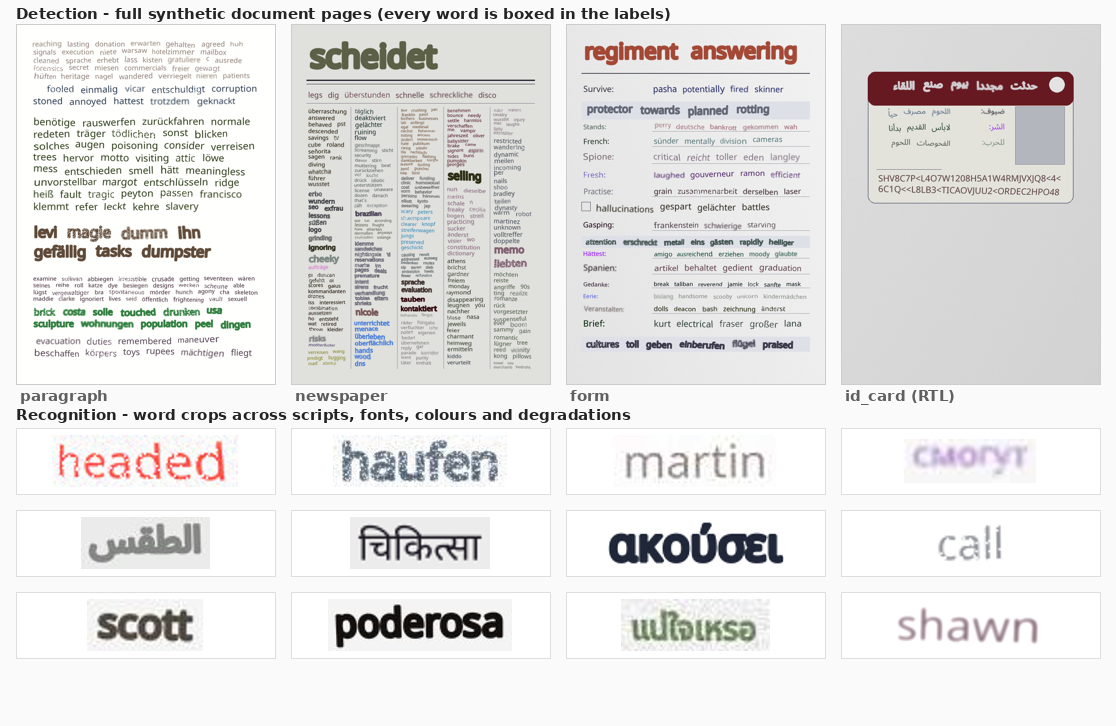
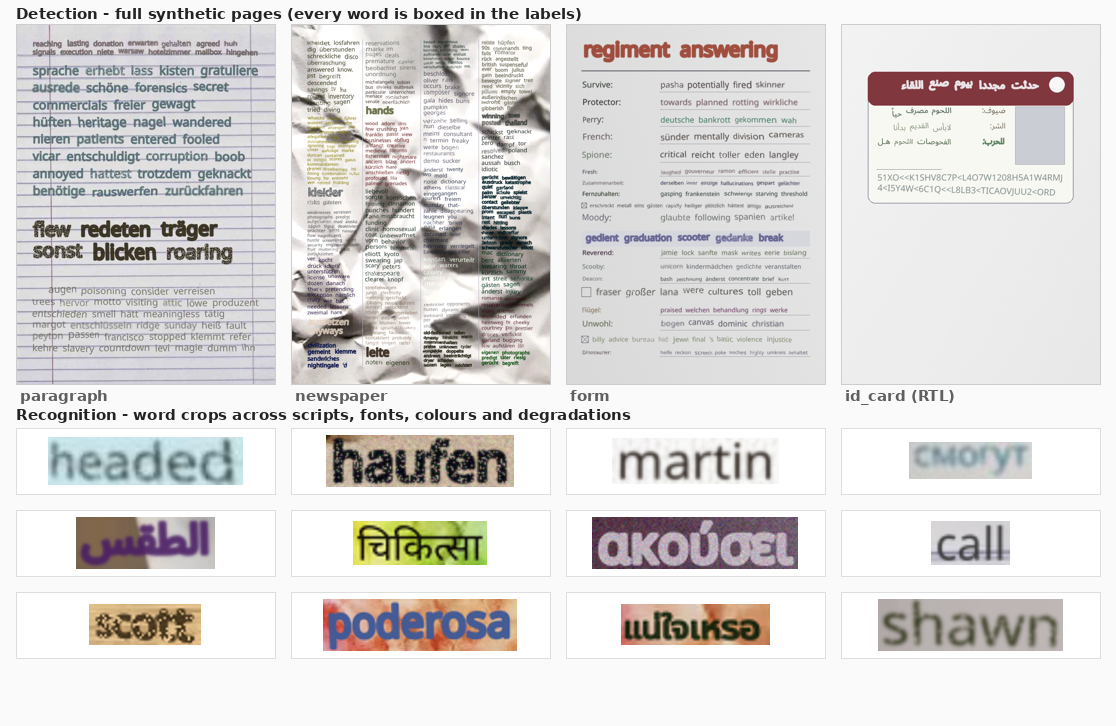
Update config

diff --git a/scripts/generate_grid.py b/scripts/generate_grid.py
@@ -1,0 +1,180 @@
+#!/usr/bin/env python3
+# Copyright (C) 2021-2026, Felix Dittrich.
+#
+# Render an example grid (detection pages + recognition crops) like the one in
+# the README. Words, fonts and backgrounds are downloaded/cached on first run.
+#
+#   python make_examples_grid.py                      # -> docs/examples_grid.png
+#   python make_examples_grid.py -o my_grid.png --seed 7
+
+from __future__ import annotations
+
+import argparse
+import os
+import random
+
+import numpy as np
+from PIL import Image, ImageDraw, ImageFont
+
+from generator.components import GenerationConfig, PageGenerator, TextImageGenerator
+from generator.components.background_downloader import BackgroundDownloader
+from generator.components.corpus_downloader import CorpusDownloader
+
+# (layout, languages, seed) - one detection page per layout; Arabic id_card shows RTL.
+DETECTION = [
+    ("paragraph", ["en", "de"], 3),
+    ("newspaper", ["en", "de"], 2),
+    ("form", ["en", "de"], 7),
+    ("id_card", ["ar"], 4),
+]
+DETECTION_CAPTIONS = ["paragraph", "newspaper", "form", "id_card (RTL)"]
+
+# (languages, seed) - recognition crops across scripts/fonts/colours.
+RECOGNITION = [
+    (["en"], 1),
+    (["de"], 2),
+    (["fr"], 3),
+    (["ru"], 4),
+    (["ar"], 5),
+    (["hi"], 6),
+    (["el"], 7),
+    (["en"], 8),
+    (["de"], 9),
+    (["es"], 10),
+    (["th"], 11),
+    (["en"], 12),
+]
+
+CACHE = dict(
+    corpus_cache_dir="/tmp/synth_corpus", font_cache_dir="/tmp/synth_fonts", background_cache_dir="/tmp/synth_bg"
+)
+
+
+def _font(size: int):
+    for path in (
+        "/usr/share/fonts/truetype/dejavu/DejaVuSans-Bold.ttf",
+        "/Library/Fonts/Arial Bold.ttf",
+    ):
+        try:
+            return ImageFont.truetype(path, size)
+        except OSError:
+            continue
+    return ImageFont.load_default()
+
+
+def resolve_backgrounds():
+    """Download the curated background set once and return its directory (or None).
+
+    ``auto_download_backgrounds`` only fires inside the full dataset generator, so
+    when rendering pages directly we trigger the download ourselves and pass the
+    resulting directory as ``bg_image_dir``.
+    """
+    downloader = BackgroundDownloader(cache_dir=CACHE["background_cache_dir"], enabled=True)
+    paths = downloader.download_all()
+    if not paths:
+        print("No backgrounds downloaded - falling back to generated/blank backgrounds.")
+        return None
+    print(f"Using {len(paths)} downloaded backgrounds from {CACHE['background_cache_dir']}")
+    return CACHE["background_cache_dir"]
+
+
+def detection_page(corpus, languages, layout, seed, bg_dir=None, w=620, h=860):
+    """Render one detection page (PIL image) for a given layout."""
+    words = corpus.build_vocabulary(languages, words_per_language=12000)
+    cfg = GenerationConfig.flat(
+        task="detection",
+        languages=languages,
+        det_layout=layout,
+        det_rotation_prob=0.0,
+        det_page_width_range=(w, w),
+        det_page_height_range=(h, h),
+        bg_image_dir=bg_dir,  # use the downloaded backgrounds
+        det_plain_background_prob=0.0 if bg_dir else 0.4,  # show them off in the demo
+        auto_download_backgrounds=False,  # already resolved above
+        **CACHE,
+    )
+    random.seed(seed)
+    np.random.seed(seed)
+    page, _ = PageGenerator(cfg).generate_page(random.choices(words, k=600))
+    return page
+
+
+def recognition_crop(corpus, languages, seed, bg_dir=None):
+    """Render one recognition word crop (PIL image)."""
+    words = corpus.build_vocabulary(languages, words_per_language=6000)
+    gen = TextImageGenerator(
+        GenerationConfig.flat(
+            task="recognition", languages=languages, auto_download_fonts=True, bg_image_dir=bg_dir, **CACHE
+        )
+    )
+    random.seed(seed * 13)
+    np.random.seed(seed * 13)
+    for _ in range(30):  # skip the rare blank render
+        crop = gen.generate_image(random.choice(words))
+        if crop is not None and crop.width > 20:
+            return crop.convert("RGB")
+    return Image.new("RGB", (60, 24), (255, 255, 255))
+
+
+def build_grid(out_path: str, seed: int = 0):
+    """Render the full example grid and save it to ``out_path``."""
+    corpus = CorpusDownloader(cache_dir=CACHE["corpus_cache_dir"])
+    random.seed(seed)
+    bg_dir = resolve_backgrounds()
+
+    # --- detection row (uniform height) ---
+    th = 360
+    pages = [detection_page(corpus, langs, layout, s, bg_dir=bg_dir) for layout, langs, s in DETECTION]
+    pages = [p.resize((int(p.width * th / p.height), th)) for p in pages]
+
+    # --- recognition crops ---
+    crops = [recognition_crop(corpus, langs, s, bg_dir=bg_dir) for langs, s in RECOGNITION]
+
+    pad, cap = 16, 24
+    det_w = sum(p.width for p in pages) + pad * (len(pages) + 1)
+    cols, rows = 4, 3
+    cell_w = (det_w - pad * (cols + 1)) // cols
+    cell_h = 66
+    rec_h = rows * (cell_h + pad) + pad + cap
+    canvas = Image.new("RGB", (det_w, cap + th + pad * 2 + rec_h + 24), (250, 250, 250))
+    draw = ImageDraw.Draw(canvas)
+    font = _font(15)
+
+    draw.text(
+        (pad, 5), "Detection - full synthetic pages (every word is boxed in the labels)", fill=(35, 35, 35), font=font
+    )
+    x, y = pad, cap
+    for page, caption in zip(pages, DETECTION_CAPTIONS):
+        canvas.paste(page, (x, y))
+        draw.rectangle([x, y, x + page.width, y + page.height], outline=(205, 205, 205))
+        draw.text((x + 4, y + page.height + 3), caption, fill=(95, 95, 95), font=font)
+        x += page.width + pad
+
+    ry = cap + th + pad * 2 + 12
+    draw.text(
+        (pad, ry - cap + 2),
+        "Recognition - word crops across scripts, fonts, colours and degradations",
+        fill=(35, 35, 35),
+        font=font,
+    )
+    for i, crop in enumerate(crops):
+        cx = pad + (i % cols) * (cell_w + pad)
+        cy = ry + (i // cols) * (cell_h + pad)
+        tile = Image.new("RGB", (cell_w, cell_h), (255, 255, 255))
+        scale = min((cell_w - 14) / crop.width, (cell_h - 14) / crop.height, 2.2)
+        crop = crop.resize((max(1, int(crop.width * scale)), max(1, int(crop.height * scale))))
+        tile.paste(crop, ((cell_w - crop.width) // 2, (cell_h - crop.height) // 2))
+        canvas.paste(tile, (cx, cy))
+        draw.rectangle([cx, cy, cx + cell_w, cy + cell_h], outline=(222, 222, 222))
+
+    canvas.save(out_path)
+    print(f"Saved {out_path}  ({canvas.width}x{canvas.height})")
+
+
+if __name__ == "__main__":
+    ap = argparse.ArgumentParser(description="Render an example grid (detection pages + recognition crops).")
+    ap.add_argument("-o", "--out", default="docs/examples_grid.png", help="output PNG path")
+    ap.add_argument("--seed", type=int, default=0)
+    args = ap.parse_args()
+    os.makedirs(os.path.dirname(args.out) or ".", exist_ok=True)
+    build_grid(args.out, seed=args.seed)

diff --git a/generator/components/config.py b/generator/components/config.py
@@ -81,7 +81,7 @@ class ResourceConfig:
     background_cache_dir: str | None = None
     font_download_timeout: int = 30
     background_manifest_url: str | None = None
-    bg_cache_size: int = 16
+    bg_cache_size: int = 50
     bg_max_dimension: int = 2000
 
 
@@ -156,7 +156,7 @@ class RecognitionConfig:
     """
 
     font_size_range: tuple[int, int] = (15, 40)
-    padding: int = 4
+    padding: int = 2
 
 
 @dataclass
@@ -193,9 +193,9 @@ class RealismConfig:
     invert_prob: float = 0.15
     bold_prob: float = 0.3
     bold_width_frac_range: tuple[float, float] = (0.03, 0.06)
-    rotation_prob: float = 0.6
+    rotation_prob: float = 0.15
     blur_prob: float = 0.2
-    perspective_prob: float = 0.3
+    perspective_prob: float = 0.25
     pixel_dropout_prob: float = 0.15
     rotation_range: tuple[float, float] = (-2, 2)
     blur_radius_range: tuple[float, float] = (0.3, 1.0)
@@ -203,7 +203,7 @@ class RealismConfig:
     pixel_dropout_range: tuple[float, float] = (0.1, 0.2)
     final_blur_prob: float = 0.15
     final_blur_radius_range: tuple[float, float] = (0.3, 1.2)
-    noise_prob: float = 0.25
+    noise_prob: float = 0.2
     noise_std_range: tuple[float, float] = (2.0, 12.0)
     jpeg_prob: float = 0.3
     jpeg_quality_range: tuple[int, int] = (35, 92)
@@ -235,7 +235,7 @@ class DetectionConfig:
 
     page_width_range: tuple[int, int] = (700, 1100)
     page_height_range: tuple[int, int] = (900, 1500)
-    font_size_range: tuple[int, int] = (14, 32)
+    font_size_range: tuple[int, int] = (12, 32)
     max_words_per_page: int = 600
     margin_ratio: float = 0.06
     block_gap_range: tuple[float, float] = (0.5, 1.5)
@@ -247,7 +247,7 @@ class DetectionConfig:
     max_blocks: int = 60
     heading_prob: float = 0.3
     plain_background_prob: float = 0.4
-    rotation_prob: float = 0.3
+    rotation_prob: float = 0.15
     rotation_range: tuple[float, float] = (-2.5, 2.5)
 
 

diff --git a/tests/common/test_config.py b/tests/common/test_config.py
@@ -25,7 +25,7 @@ def test_balancing_and_cache_defaults():
     assert cfg.balance.language_balance == "balanced"
     assert cfg.balance.language_weights is None
     assert cfg.balance.min_char_coverage == 0
-    assert cfg.resources.bg_cache_size == 16
+    assert cfg.resources.bg_cache_size == 50
     assert cfg.realism.supersample >= 1
 
 
